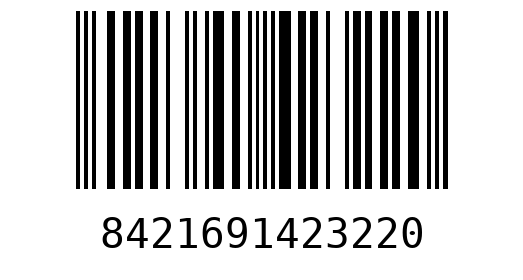
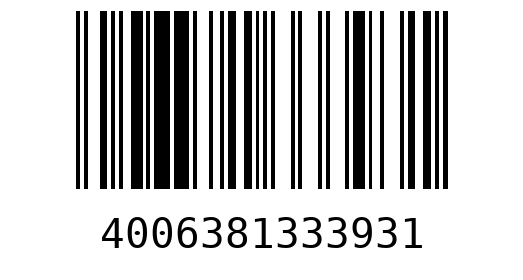
updated barcode validation

diff --git a/UC3MLogistics/OrderManager.py b/UC3MLogistics/OrderManager.py
@@ -2,13 +2,41 @@ import json
 from .OrderMangementException import OrderManagementException
 from .OrderRequest import OrderRequest
 
+EVEN_POS_WEIGHT = 1
+ODD_POS_WEIGHT = 3
+
 class OrderManager:
+
     def __init__(self):
         pass
 
     def ValidateEAN13( self, eAn13 ):
-        # PLEASE INCLUDE HERE THE CODE FOR VALIDATING THE GUID
-        # RETURN TRUE IF THE GUID IS RIGHT, OR FALSE IN OTHER CASE
+
+        # confirm that the length is 13
+        if len(eAn13) != 13:
+            return False
+
+        # confirm that every character is a number
+        # and also calculate the check digit
+        sum = 0
+        for i in range(0, len(eAn13), 1):
+            if not eAn13[i].isnumeric():
+                return False
+            elif i == len(eAn13) - 1:
+                continue
+            elif i % 2 == 0: # if the position is even, the weight is 3
+                sum += (EVEN_POS_WEIGHT * int(eAn13[i]))
+            else:
+                sum += (ODD_POS_WEIGHT * int(eAn13[i]))
+
+        # validate checkdigit
+        if sum % 10 == 0:
+            expected_checkdigit = (int(sum / 10) * 10) - sum
+        else:
+            expected_checkdigit = ((int(sum / 10) + 1) * 10) - sum
+        if not expected_checkdigit == int(eAn13[-1]):
+            return False
+
         return True
 
     def ReadproductcodefromJSON( self, fi ):

diff --git a/main.py b/main.py
@@ -29,12 +29,42 @@ def Decode(word):
     return encoded
 
 def main():
+    # successful test
+
     mng = OrderManager()
     res = mng.ReadproductcodefromJSON("test.json")
     strRes = res.__str__()
     print(strRes)
     EncodeRes = Encode(strRes)
-    print("Encoded Res "+ EncodeRes)
+    print("Encoded Res " + EncodeRes)
+    DecodeRes = Decode(EncodeRes)
+    print("Decoded Res: " + DecodeRes)
+    print("Codew: " + res.PRODUCT_CODE)
+    with open("./barcodeEan13.jpg", 'wb') as f:
+        iw = ImageWriter()
+        EAN13(res.PRODUCT_CODE, writer=iw).write(f)
+
+    # fail test
+    '''
+    res = mng.ReadproductcodefromJSON("testFail.json")
+    strRes = res.__str__()
+    print(strRes)
+    EncodeRes = Encode(strRes)
+    print("Encoded Res " + EncodeRes)
+    DecodeRes = Decode(EncodeRes)
+    print("Decoded Res: " + DecodeRes)
+    print("Codew: " + res.PRODUCT_CODE)
+    with open("./barcodeEan13.jpg", 'wb') as f:
+        iw = ImageWriter()
+        EAN13(res.PRODUCT_CODE, writer=iw).write(f)
+    '''
+
+    # second successful test
+    res = mng.ReadproductcodefromJSON("testSuccess.json")
+    strRes = res.__str__()
+    print(strRes)
+    EncodeRes = Encode(strRes)
+    print("Encoded Res " + EncodeRes)
     DecodeRes = Decode(EncodeRes)
     print("Decoded Res: " + DecodeRes)
     print("Codew: " + res.PRODUCT_CODE)
